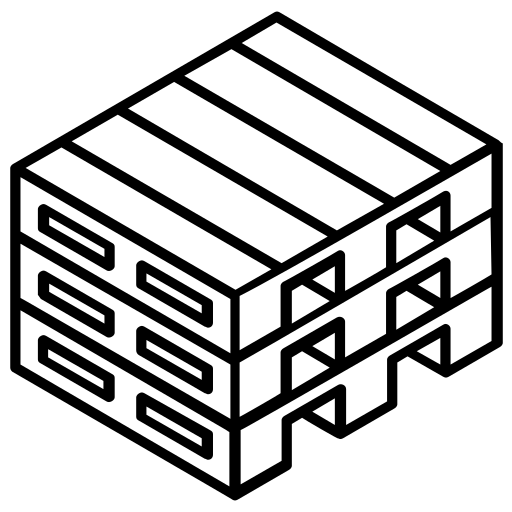
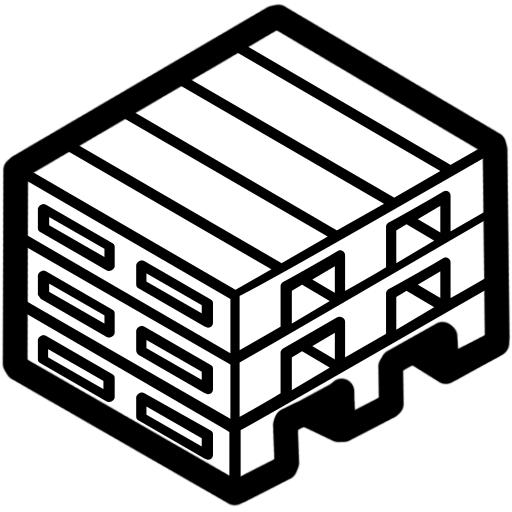
qr code print btn direction change

Changed region(s): [[0.0, 0.0, 1.0, 1.0]]

diff --git a/pages/system/template/guhring_order.php b/pages/system/template/guhring_order.php
@@ -356,7 +356,7 @@
 
                 <div class="col-6 mt-4">
                     <label for="" class="form-label"><strong>QR Code</strong></label>
-                    <div class="d-flex  flex-wrap gap-2">
+                    <div class="d-flex  flex-wrap flex-direction-column">
                         <?php if (!empty($qr_data)): ?>
                             <a href="/uploads/qrcodes/<?= $qr_data['file_path']; ?>" target="_blank">
                                 <img id="qrcode_img" src="/uploads/qrcodes/<?= $qr_data['file_path']; ?>" alt="QR Code" width="150" height="150" class="p-2 border rounded-4">
